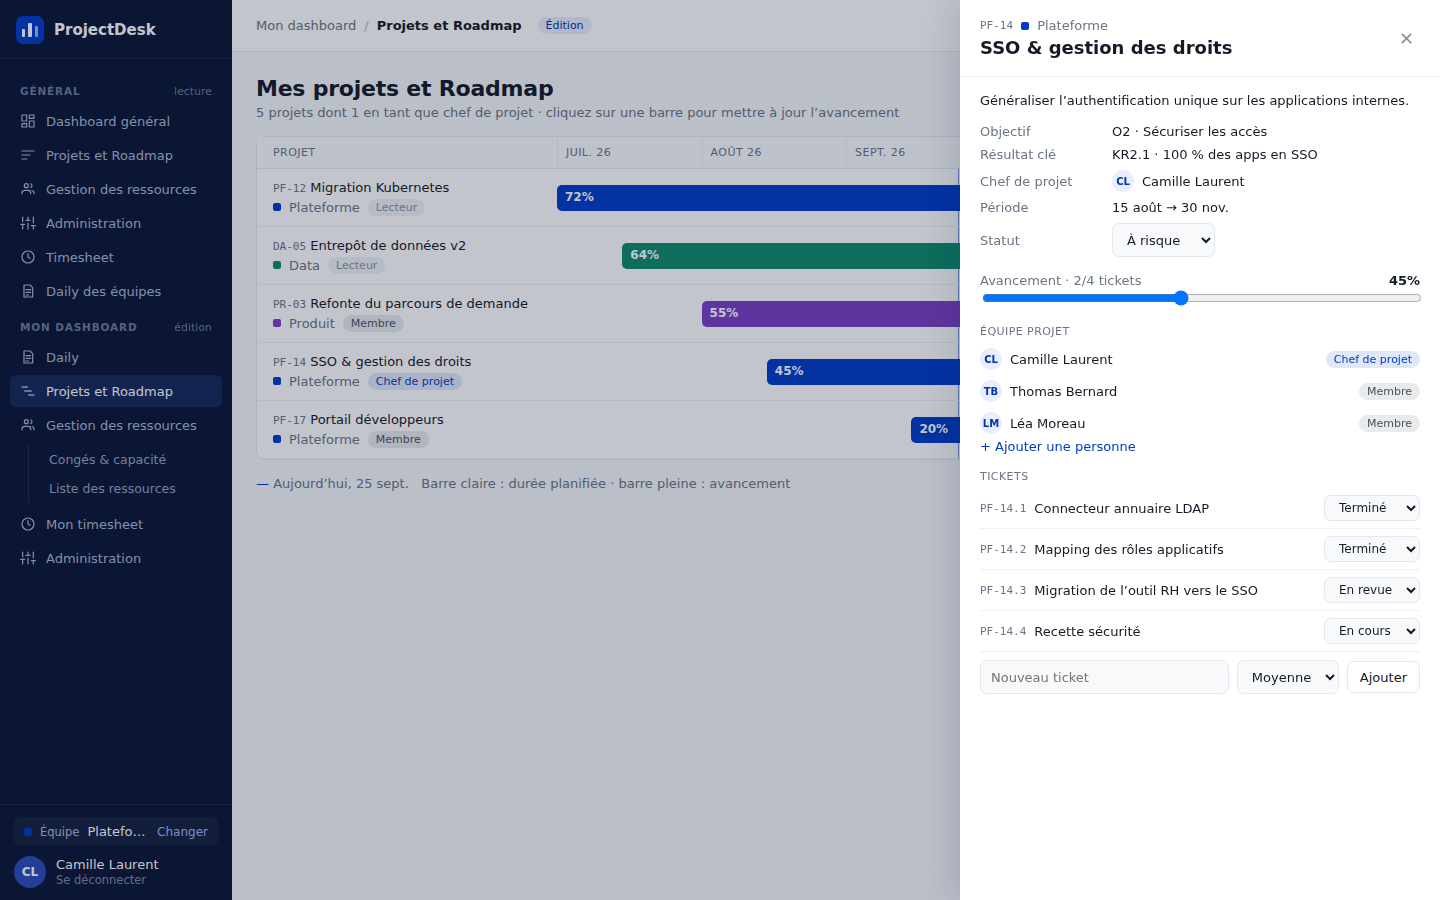
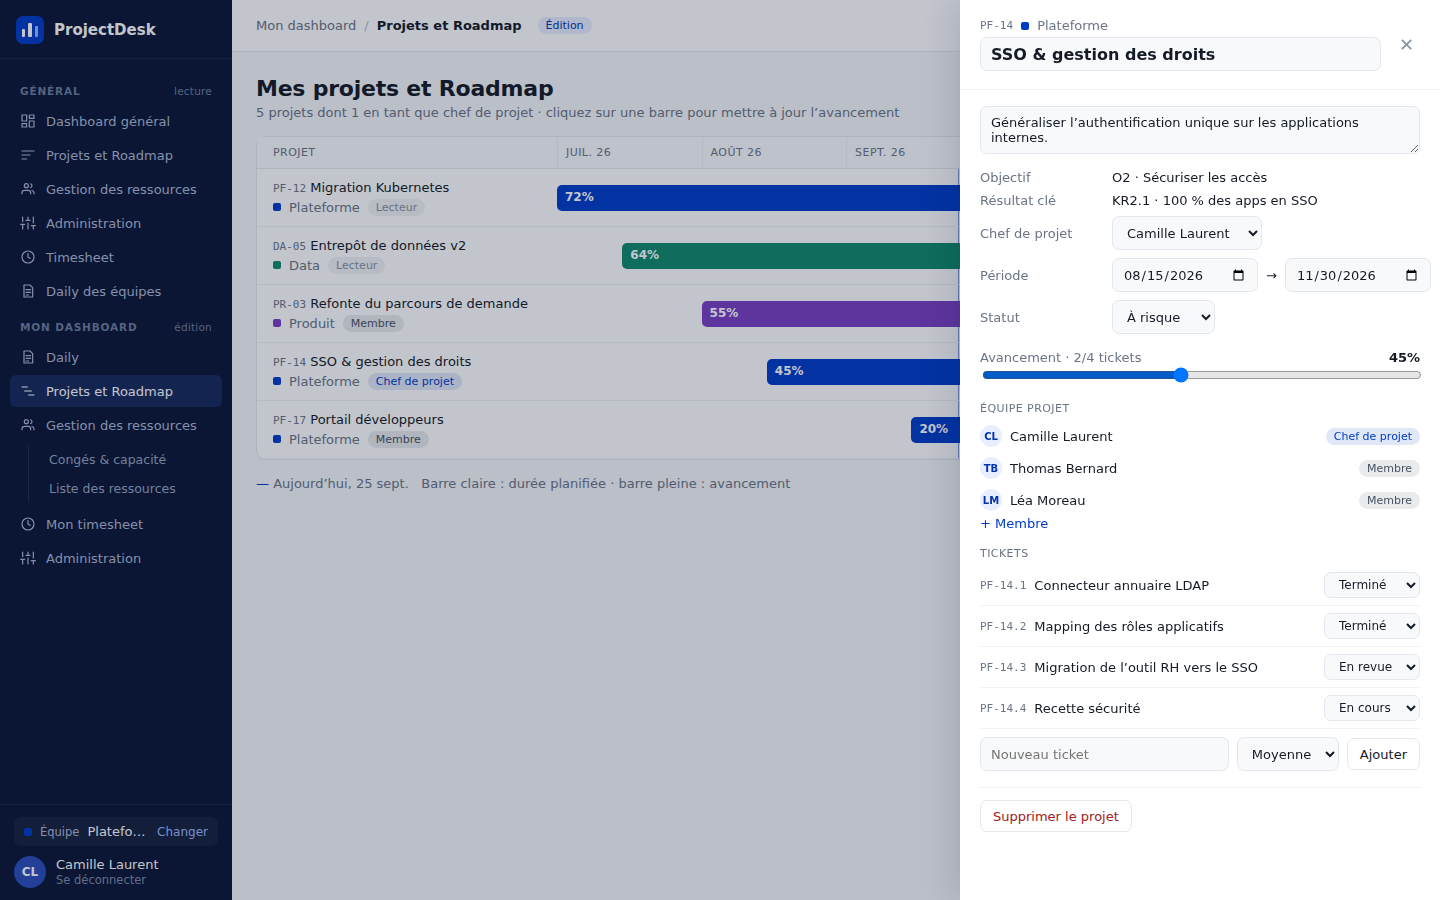
Données à jour sans F5 ; projet modifiable
- Lectures Data API en cache: 'no-store' (le navigateur resservait
  d'anciennes réponses après une écriture) ; Cache-Control: no-cache sur
  /app/* (Vercel) pour prendre les nouvelles versions au rechargement
- Panneau projet : nom, description, chef, début, fin modifiables,
  suppression du projet ; icône ✎ sur les projets de Liste des ressources
- DAT v1.18

Claude-Session: https://claude.ai/code/session_0187v8SY8uiT6dnWqjjqJYb6

diff --git a/app/js/panneau-projet.js b/app/js/panneau-projet.js
@@ -1,7 +1,9 @@
 /* ============================================================
    Panneau latéral « Projet » (maquette 11-panneau-projet.png)
    - Détail : objectif, chef, période, statut, avancement, équipe
-     projet, tickets. Modifiable si peutEditerProjet (sinon lecture).
+     projet, tickets. Modifiable si peutEditerProjet (sinon lecture) :
+     nom, description, chef, début, fin, statut, avancement ; suppression
+     du projet par un membre de son équipe (règle RLS).
      Depuis la section « Général », le panneau reste en lecture.
    - Création : formulaire « Nouveau projet » (bouton de Mes projets,
      de la Liste des ressources, ou depuis une demande acceptée).
@@ -24,21 +26,30 @@ const Panneau = {
     const note = ecranGeneral ? 'Vue générale en lecture seule. Modifiez ce projet depuis Mon dashboard.'
       : !editable ? 'Rôle Lecteur ou autre équipe : modification impossible.' : '';
 
+    // Champ modifiable du projet (enregistré à la sortie du champ par majProjet)
+    const champ = (nom, html) => editable ? html.replace('<CHAMP', `data-action-change="majProjet" data-champ="${nom}" data-id="${p.id}"`) : '';
+    const personnesEquipe = etat.d.ressources.filter(r => r.equipeId === p.equipeId).map(r => ({ valeur: r.id, libelle: r.nom }));
     const statut = editable ? C.liste(valeursDe('stp').map(v => v.libelle), p.statut, `class="champ" style="width:auto" data-action-change="majProjet" data-champ="statut" data-id="${p.id}"`) : C.badgeRef('stp', p.statut);
     const ticketsHtml = tickets.map(t => `<div class="ligne-flex" style="padding:7px 0;border-bottom:1px solid var(--bordure-fine)">
         ${C.code(t.numero)}<span style="flex:1">${esc(t.titre)}</span>
         ${editable ? C.liste(valeursDe('stt').map(v => v.libelle), t.statut, `class="champ" style="width:auto;height:26px;font-size:12px" data-action-change="statutTicket" data-id="${t.id}"`) : C.badgeRef('stt', t.statut)}</div>`).join('');
 
     return `<aside class="panneau">
-      <div class="panneau-entete"><div><div class="ligne-flex discret">${C.code(p.code)} ${C.pastille(eq.couleur)}${esc(eq.nom)}</div><h2 style="font-size:18px;margin-top:4px">${esc(p.nom)}</h2></div>
+      <div class="panneau-entete"><div style="flex:1"><div class="ligne-flex discret">${C.code(p.code)} ${C.pastille(eq.couleur)}${esc(eq.nom)}</div>
+          ${editable ? champ('nom', `<input class="champ" style="font-size:16px;font-weight:600;margin-top:4px" value="${esc(p.nom)}" required <CHAMP>`)
+            : `<h2 style="font-size:18px;margin-top:4px">${esc(p.nom)}</h2>`}</div>
         <button class="fermer" data-action="fermer" title="Fermer">✕</button></div>
       <div class="panneau-corps">
-        ${p.description ? `<div>${esc(p.description)}</div>` : ''}
+        ${editable ? champ('description', `<textarea class="champ" rows="2" placeholder="Description" <CHAMP>${esc(p.description || '')}</textarea>`)
+          : p.description ? `<div>${esc(p.description)}</div>` : ''}
         <div class="infos">
           <span>Objectif</span><span>${obj ? esc(obj.code + ' · ' + obj.titre) : '—'}</span>
           <span>Résultat clé</span><span>${kr ? esc(kr.code + ' · ' + kr.libelle) : '—'}</span>
-          <span>Chef de projet</span><span class="ligne-flex">${chef ? C.avatar(chef.nom) + esc(chef.nom) : '—'}</span>
-          <span>Période</span><span>${Calculs.formatCourt(p.debut)} → ${Calculs.formatCourt(p.fin)}</span>
+          <span>Chef de projet</span><span class="ligne-flex">${editable ? champ('chefId', C.liste([{ valeur: '', libelle: '—' }, ...personnesEquipe], p.chefId || '', 'class="champ" style="width:auto" <CHAMP'))
+            : chef ? C.avatar(chef.nom) + esc(chef.nom) : '—'}</span>
+          <span>Période</span><span class="ligne-flex">${editable
+            ? champ('debut', `<input type="date" class="champ" style="width:auto" value="${p.debut || ''}" <CHAMP>`) + ' → ' + champ('fin', `<input type="date" class="champ" style="width:auto" value="${p.fin || ''}" <CHAMP>`)
+            : `${Calculs.formatCourt(p.debut)} → ${Calculs.formatCourt(p.fin)}`}</span>
           <span>Statut</span><span>${statut}</span>
         </div>
         <div><div class="ligne-flex" style="justify-content:space-between"><span class="discret">Avancement · ${n.termines}/${n.total} tickets</span><b id="avancement-valeur">${p.avancement}%</b></div>
@@ -46,11 +57,13 @@ const Panneau = {
             : `<div style="margin-top:8px">${C.barre(p.avancement, C.couleurStatutProjet(p.statut))}</div>`}</div>
         ${note ? `<div class="discret" style="font-size:12px">${note}</div>` : ''}
         <div><div class="libelle">Équipe projet</div>${membres.map(a => { const r = ressource(a.ressourceId); return r ? `<div class="ligne-flex" style="padding:5px 0">${C.avatar(r.nom)}<span style="flex:1">${esc(r.nom)}</span>${C.badgeRef('role', a.role)}</div>` : ''; }).join('') || '<span class="pale">Aucun membre.</span>'}
-          ${editable ? `<a data-action="assigner" data-projet="${p.id}">+ Ajouter une personne</a>` : ''}</div>
+          ${editable ? `<a data-action="assigner" data-projet="${p.id}">+ Membre</a>` : ''}</div>
         <div><div class="libelle">Tickets</div>${ticketsHtml || '<span class="pale">Aucun ticket.</span>'}
           ${editable ? `<form class="ligne-flex" style="margin-top:8px" data-action-envoi="ajouterTicket" data-projet="${p.id}">
             <input class="champ" name="titre" placeholder="Nouveau ticket" required>${C.liste(valeursDe('prio').map(v => v.libelle), 'Moyenne', 'class="champ" name="priorite" style="width:auto"')}
             <button class="btn">Ajouter</button></form>` : ''}</div>
+        ${editable && estMembreDe(p.equipeId) ? `<div style="border-top:1px solid var(--bordure-fine);padding-top:12px">
+          <button class="btn danger" data-action="supprimerProjet" data-id="${p.id}">Supprimer le projet</button></div>` : ''}
       </div>
     </aside>`;
   },
@@ -82,9 +95,18 @@ const Panneau = {
 Object.assign(Actions, {
   // Déplacement du curseur : affichage immédiat du pourcentage (enregistrement au relâchement)
   apercuAvancement: (_, el) => { document.getElementById('avancement-valeur').textContent = el.value + '%'; },
+  // Modification d'un champ du projet ; champ vidé = valeur nulle (nom obligatoire)
   majProjet(d, el) {
-    const valeur = d.champ === 'avancement' ? Number(el.value) : el.value;
+    const brut = el.value.trim();
+    if (d.champ === 'nom' && !brut) return notifier('Le nom est obligatoire', 'erreur');
+    const p = projet(d.id), debut = d.champ === 'debut' ? brut : p.debut, fin = d.champ === 'fin' ? brut : p.fin;
+    if (debut && fin && fin < debut) return notifier('La fin doit être après le début', 'erreur');
+    const valeur = d.champ === 'avancement' ? Number(brut) : (brut || null);
     executer(() => Api.modifier('projets', { id: 'eq.' + d.id }, { [d.champ]: valeur }), 'projets');
+  },
+  supprimerProjet(d) {
+    if (!confirm('Supprimer ce projet ? Ses tickets, affectations et heures saisies seront supprimés.')) return;
+    executer(async () => { await Api.supprimer('projets', { id: 'eq.' + d.id }); etat.panneau = null; }, 'projets', 'tickets', 'affectations', 'temps', 'demandes');
   },
   statutTicket: (d, el) => executer(() => Api.modifier('tickets', { id: 'eq.' + d.id }, { statut: el.value }), 'tickets'),
   ajouterTicket(d, form) {

diff --git a/tests/parcours.js b/tests/parcours.js
@@ -129,6 +129,7 @@ const verifier = (nom, condition, detail = '') => { resultats.push({ nom, ok: !!
     await page.click('.gantt-ligne:has-text("PF-14") .gantt-barre');   // projet dont Camille est cheffe await page.waitForTimeout(200);
     await capture('10-panneau-projet');
     await page.selectOption('select[data-champ="statut"]', 'En retard'); await page.waitForTimeout(300);
+    verifier('Panneau : description sans caractère parasite', !(await page.inputValue('.panneau textarea[data-champ="description"]')).startsWith('>'));
     verifier('Panneau : statut modifié', (await page.inputValue('select[data-champ="statut"]')) === 'En retard');
     await page.fill('form[data-action-envoi="ajouterTicket"] input[name=titre]', 'Ticket de test');
     await page.click('form[data-action-envoi="ajouterTicket"] button'); await page.waitForTimeout(300);
@@ -143,7 +144,7 @@ const verifier = (nom, condition, detail = '') => { resultats.push({ nom, ok: !!
     await page.fill('form[data-action-envoi="creerProjet"] input[name=nom]', 'Projet de test');
     verifier('Nouveau projet : ni résultat clé, ni dates, ni statut', !(await page.$('form[data-action-envoi="creerProjet"] [name=resultatCleId], form[data-action-envoi="creerProjet"] [name=debut], form[data-action-envoi="creerProjet"] [name=fin], form[data-action-envoi="creerProjet"] [name=statut]')));
     await page.click('form[data-action-envoi="creerProjet"] .btn.primaire'); await page.waitForTimeout(400);
-    verifier('Nouveau projet créé et ouvert', (await texte()).includes('Projet de test'));
+    verifier('Nouveau projet créé et ouvert', (await page.inputValue('.panneau input[data-champ="nom"]')) === 'Projet de test');
     await page.click('.fermer');
 
     await aller('conges'); await page.click('[data-action="moisSuivant"]');
@@ -202,6 +203,13 @@ const verifier = (nom, condition, detail = '') => { resultats.push({ nom, ok: !!
     await page.click('.modale .btn.primaire'); await page.waitForTimeout(400);
     verifier('Affectation : personne créée depuis « + Membre » puis affectée', choisie.startsWith('Nina Test') && pf17Coche
       && await page.evaluate(() => etat.d.affectations.some(a => a.ressourceId === etat.d.ressources.find(r => r.nom === 'Nina Test').id)));
+    // Projet modifiable depuis l'arborescence : nom, dates
+    await page.click('tr:has-text("PF-17") [data-action="ouvrirProjet"]'); await page.waitForTimeout(200);
+    await page.fill('.panneau input[data-champ="nom"]', 'Portail développeurs v2'); await page.press('.panneau input[data-champ="nom"]', 'Tab'); await page.waitForTimeout(300);
+    await page.fill('.panneau input[data-champ="fin"]', '2027-03-31'); await page.press('.panneau input[data-champ="fin"]', 'Tab'); await page.waitForTimeout(300);
+    verifier('Projet : nom et date de fin modifiés depuis Liste des ressources',
+      await page.evaluate(() => { const p = etat.d.projets.find(x => x.code === 'PF-17'); return p.nom === 'Portail développeurs v2' && p.fin === '2027-03-31'; }));
+    await page.click('.panneau .fermer');
 
     await aller('monTimesheet'); await page.click('[data-action="semainePrecedente"]'); await page.waitForTimeout(200);
     await page.click('[data-action="semaineSuivante"]'); await page.waitForTimeout(200);

diff --git a/app/js/ecrans/liste-ressources.js b/app/js/ecrans/liste-ressources.js
@@ -88,7 +88,8 @@ Ecrans.listeRessources = {
             ${C.icone('projet')}${C.code(p.code)} ${esc(p.nom)}</span></td>
          <td class="num" style="text-align:center">${membres.length}</td><td>Chef : ${nomRessource(p.chefId)}</td>
          <td>${C.badgeRef('stp', p.statut)}</td>
-         <td class="num">${peutEditerProjet(p) ? `<a data-action="assigner" data-projet="${p.id}">+ Membre</a>` : ''}</td>`);
+         <td class="num"><span class="ligne-flex" style="justify-content:flex-end">${peutEditerProjet(p) ? `<a data-action="assigner" data-projet="${p.id}">+ Membre</a>` : ''}
+           ${C.boutonIcone('modifier', 'ouvrirProjet', `data-id="${p.id}"`, peutEditerProjet(p) ? 'Modifier le projet' : 'Voir le projet')}</span></td>`);
       membres.forEach(a => { const r = ressource(a.ressourceId); if (r) lignePersonne(r, a, niveau + 1, [...chemin, p.id], masquee || !ouvert); });
     };
 

diff --git a/app/js/api.js b/app/js/api.js
@@ -155,10 +155,12 @@ const Api = (() => {
   }
   const urlTable = (table, filtres) => `${CONFIG.DATA_API_URL}/${table}?${requete(filtres)}`;
 
-  // Lecture : renvoie des objets en camelCase
+  // Lecture : renvoie des objets en camelCase.
+  // cache: 'no-store' : sans lui, le navigateur peut resservir une ancienne réponse de la même
+  // adresse après une écriture (données à jour seulement après F5).
   async function lire(table, filtres = {}) {
     const lignes = await appeler(urlTable(table, { select: '*', ...filtres }),
-      { credentials: 'omit', headers: await entetes() });
+      { credentials: 'omit', cache: 'no-store', headers: await entetes() });
     return lignes.map(depuisBdd);
   }
 

diff --git a/docs/DAT.md b/docs/DAT.md
@@ -30,6 +30,7 @@
 | 1.15    | 2026-09-25 | Affectation : « + Nouvelle personne » depuis « + Membre » (fiche créée puis sélectionnée) (§ 3.4) |
 | 1.16    | 2026-09-25 | Libellé unique « Membre » : « + Personne » → « + Membre », « + Nouvelle personne » → « + Nouveau membre » (§ 3.3, § 3.4) |
 | 1.17    | 2026-09-25 | Congés & capacité : trois onglets au lieu de trois blocs ; récap annuel sur les personnes de la grille (et non plus l'équipe ouverte seule) (§ 3.3) |
+| 1.18    | 2026-09-25 | Données à jour sans F5 (lectures `no-store`, `no-cache` Vercel) ; panneau projet modifiable (nom, description, chef, dates) et supprimable, ouvert depuis Liste des ressources (§ 3.4, § 8) |
 
 ---
 
@@ -139,7 +140,9 @@ validées : `docs/maquettes/pilotage-projet/complements/`) :
 - panneau **Nouveau projet** (aussi ouvert par « Créer le projet » sur une demande acceptée) : code, nom,
   description, chef de projet ; résultat clé, dates et statut ne sont pas demandés à la création
   (statut « Planifié » par défaut ; un projet sans dates n'apparaît pas dans le Gantt de Mes projets) ;
-- **ajout / statut de tickets** dans le panneau projet ;
+- **ajout / statut de tickets** dans le panneau projet ; panneau projet **modifiable** (nom, description,
+  chef, début, fin, statut, avancement, suppression du projet), ouvert aussi depuis l'icône ✎ d'un
+  projet dans Liste des ressources ;
 - fenêtres **fiche ressource** et **équipe** (membres Neon Auth, invitations) ;
 - dans la fenêtre d'affectation, lien **« + Nouveau membre »** : crée la fiche dans l'équipe du
   projet puis revient à l'affectation, personne sélectionnée et projet coché.
@@ -274,7 +277,10 @@ refusée sur `referentiels`, `administrateurs` et `demandes` (usurpation).
 
 ## 8. Déploiement
 
-- `vercel.json` redirige `/` vers `/app/` ; site statique, sans build.
+- `vercel.json` redirige `/` vers `/app/` et envoie `Cache-Control: no-cache` pour `/app/*` (le
+  navigateur revalide les fichiers : une nouvelle version est prise au rechargement) ; site statique, sans build.
+- Les lectures Data API sont faites avec `cache: 'no-store'` (`api.js`) : sans cela le navigateur
+  pouvait resservir une ancienne réponse après une écriture (données à jour seulement après F5).
 - Vercel publie la branche `main`.
 - Domaines de confiance déclarés dans Neon Auth (sinon : « Invalid callbackURL » / « Invalid origin ») :
 
@@ -300,7 +306,7 @@ refusée sur `referentiels`, `administrateurs` et `demandes` (usurpation).
 | Outil | Contenu |
 |-------|---------|
 | `tests/serveur-simule.js` | Neon Auth (dont Google simulé) + Data API simulés en mémoire, données de la maquette (comptes `camille@test.fr` administratrice/owner, `thomas@test.fr` membre, `elodie@test.fr` demandeuse, `admin@test.fr` administratrice sans équipe ; mot de passe `motdepasse`) |
-| `tests/parcours.js` | Parcours Playwright de bout en bout (46 contrôles, dont « Général en lecture seule », l'aller-retour Google simulé, le parcours administrateur sans équipe le daily des équipes et le board des ressources) + captures `docs/maquettes/etat-actuel/` |
+| `tests/parcours.js` | Parcours Playwright de bout en bout (48 contrôles, dont « Général en lecture seule », l'aller-retour Google simulé, le parcours administrateur sans équipe le daily des équipes et le board des ressources) + captures `docs/maquettes/etat-actuel/` |
 | `scripts/verifier-docs.js` | Cohérence documentation ↔ code après chaque commit (§ 11) |
 
 Les règles RLS ne sont pas simulées : elles sont vérifiées en base et lors de la recette réelle.
